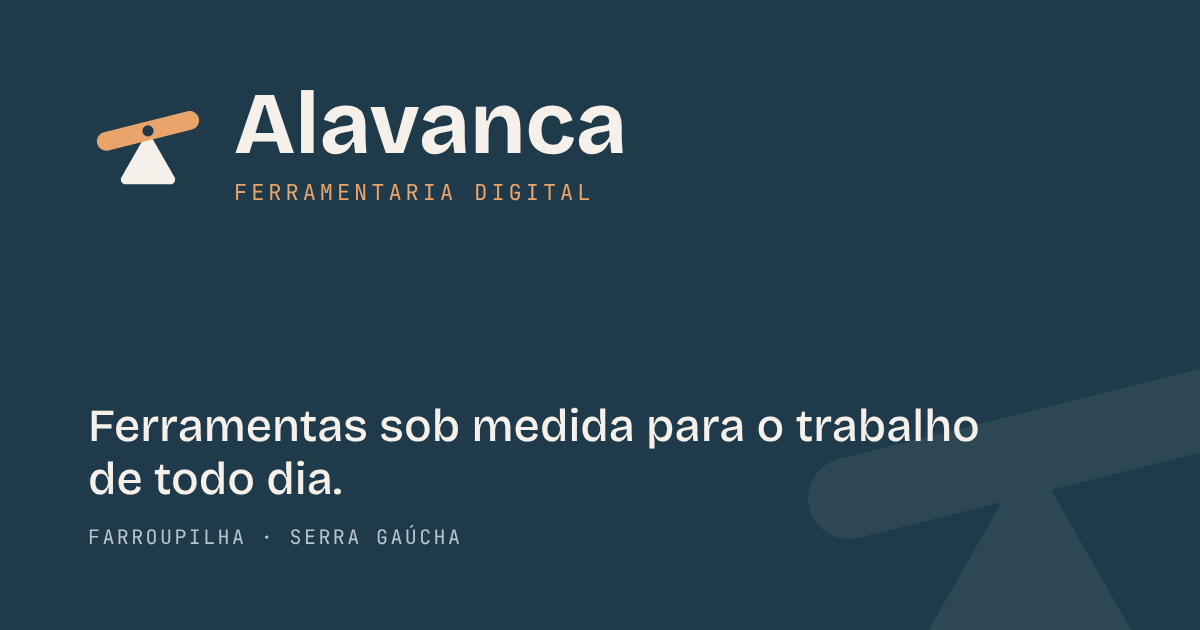
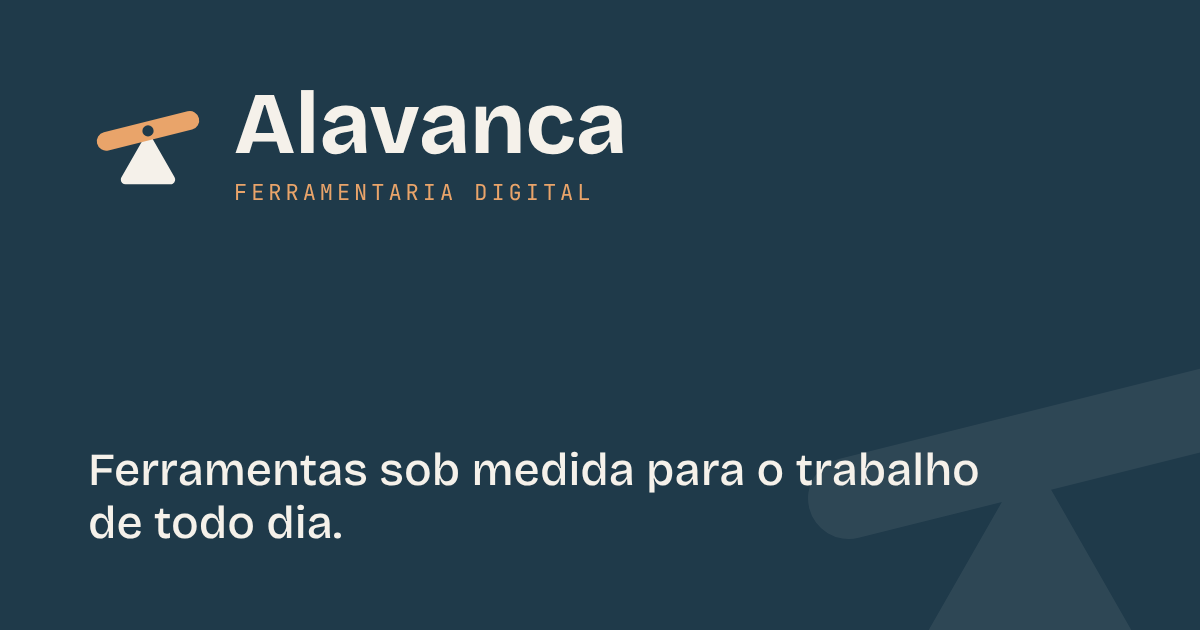
Retira referências à região e aos nomes dos sócios
Claude-Session: https://claude.ai/code/session_018fDDJx7eToLQ8KQqsvH9tL

Changed region(s): [[0.0617, 0.6333, 0.8325, 0.7841], [0.0617, 0.8143, 0.37, 0.8746]]

diff --git a/index.html b/index.html
@@ -3,8 +3,8 @@
 <head>
 <meta charset="utf-8">
 <meta name="viewport" content="width=device-width, initial-scale=1">
-<title>Alavanca · Ferramentaria digital em Farroupilha</title>
-<meta name="description" content="Pequenos aplicativos e ferramentas sob medida para as rotinas que hoje dependem de planilha, papel e retrabalho. Farroupilha e Serra Gaúcha.">
+<title>Alavanca · Ferramentaria digital</title>
+<meta name="description" content="Pequenos aplicativos e ferramentas sob medida para as rotinas que hoje dependem de planilha, papel e retrabalho.">
 <meta name="theme-color" content="#1F3A4A">
 <meta name="color-scheme" content="light">
 <meta property="og:type" content="website">
@@ -37,12 +37,11 @@
       <a href="#resolvemos">O que resolvemos</a>
       <a href="#como-funciona">Como funciona</a>
       <a href="#exemplos">Exemplos</a>
-      <a href="#quem-somos">Quem somos</a>
+      <a href="#por-que">Por que a Alavanca</a>
       <a href="#contato" class="botao botao-cobre botao-menu">Conte seu problema</a>
       <div class="menu-contatos">
         <div><span class="rotulo">WhatsApp</span> <span data-contato="whatsapp">[SEU WHATSAPP]</span></div>
         <div><span class="rotulo">E-mail</span> <span data-contato="email">[SEU E-MAIL]</span></div>
-        <div>Farroupilha – RS</div>
       </div>
     </nav>
     <button class="botao-menu-celular" type="button" aria-controls="menu" aria-expanded="false" aria-label="Abrir menu">
@@ -57,9 +56,9 @@
   <section id="inicio" class="abertura">
     <div class="container abertura-grade">
       <div class="abertura-texto">
-        <p class="sobretitulo">Farroupilha e Serra Gaúcha</p>
+        <p class="sobretitulo">Ferramentas sob medida para empresas</p>
         <h1>Aquele trabalho manual que toma horas da sua equipe? A gente transforma em ferramenta.</h1>
-        <p class="abertura-apoio">Desenvolvemos pequenos aplicativos e ferramentas sob medida para as rotinas que hoje dependem de planilha, papel e retrabalho. Sem jargão, com preço fechado e com gente da região do outro lado da mesa.</p>
+        <p class="abertura-apoio">Desenvolvemos pequenos aplicativos e ferramentas sob medida para as rotinas que hoje dependem de planilha, papel e retrabalho. Sem jargão, com preço fechado e com atendimento próximo do começo ao fim.</p>
         <div class="botoes">
           <a href="#contato" class="botao botao-cobre" data-whatsapp-link>
             <svg width="20" height="20" viewBox="0 0 24 24" fill="none" stroke="currentColor" stroke-width="2" stroke-linecap="round" stroke-linejoin="round" aria-hidden="true"><path d="M21 11.5a8.5 8.5 0 0 1-12.6 7.4L3 20.5l1.7-5.2A8.5 8.5 0 1 1 21 11.5z"/></svg>
@@ -148,7 +147,7 @@
         <li class="passo">
           <span class="passo-numero">01</span>
           <h3>Uma conversa</h3>
-          <p>Vamos até você, ou conversamos por vídeo, para entender a rotina do jeito que ela acontece de verdade, com quem faz o trabalho no dia a dia.</p>
+          <p>Conversamos pessoalmente ou por vídeo para entender a rotina do jeito que ela acontece de verdade, com quem faz o trabalho no dia a dia.</p>
           <span class="selo selo-passo">Sem compromisso</span>
         </li>
         <li class="passo">
@@ -239,12 +238,13 @@
       <div class="cabecalho-secao">
         <p class="sobretitulo">Por que a Alavanca</p>
         <h2>Pouco esforço e muito resultado, como uma boa alavanca</h2>
+        <p>Muitas empresas perdem horas toda semana com tarefas que uma ferramenta pequena resolveria. A Alavanca existe para isso: gente que entende de software, conversa sem jargão e entrega o que combinou.</p>
       </div>
       <div class="grade-motivos">
         <div class="motivo">
           <svg class="check" viewBox="0 0 24 24" aria-hidden="true"><path d="M4 12.5l5 5L20 7"/></svg>
-          <h3>Gente da região</h3>
-          <p>Estamos em Farroupilha. Dá para tomar um café e conversar pessoalmente sempre que for preciso.</p>
+          <h3>Atendimento próximo</h3>
+          <p>Conversamos pessoalmente ou por vídeo, do jeito que for melhor para você, e você sempre sabe com quem está falando.</p>
         </div>
         <div class="motivo">
           <svg class="check" viewBox="0 0 24 24" aria-hidden="true"><path d="M4 12.5l5 5L20 7"/></svg>
@@ -261,40 +261,6 @@
           <h3>A ferramenta é sua</h3>
           <p>O que construímos para você fica com você: os dados, os acessos e o próprio programa, sem amarras com a gente.</p>
         </div>
-      </div>
-    </div>
-  </section>
-
-  <section id="quem-somos" class="secao">
-    <div class="container">
-      <div class="cabecalho-secao">
-        <p class="sobretitulo">Quem somos</p>
-        <h2>Dois sócios de Farroupilha, perto de quem precisa</h2>
-        <p>Muitas empresas da região perdem horas toda semana com tarefas que uma ferramenta pequena resolveria. A Alavanca existe para isso: gente próxima, que entende do assunto e conversa na sua língua.</p>
-      </div>
-      <div class="grade-socios">
-        <article class="socio">
-          <div class="socio-foto" aria-hidden="true">
-            <svg viewBox="0 0 24 24"><circle cx="12" cy="8" r="4"/><path d="M4 21c1.5-4 4.5-6 8-6s6.5 2 8 6"/></svg>
-            <span>[FOTO]</span>
-          </div>
-          <div>
-            <h3>Gabriel Tavares</h3>
-            <p class="socio-funcao">Sócio · [ÁREA DE ATUAÇÃO]</p>
-            <p class="socio-texto">[Um parágrafo curto sobre a trajetória do Gabriel: experiência, especialidade e por que decidiu criar a Alavanca.]</p>
-          </div>
-        </article>
-        <article class="socio">
-          <div class="socio-foto" aria-hidden="true">
-            <svg viewBox="0 0 24 24"><circle cx="12" cy="8" r="4"/><path d="M4 21c1.5-4 4.5-6 8-6s6.5 2 8 6"/></svg>
-            <span>[FOTO]</span>
-          </div>
-          <div>
-            <h3>Vandré Fardin</h3>
-            <p class="socio-funcao">Sócio · [ÁREA DE ATUAÇÃO]</p>
-            <p class="socio-texto">[Um parágrafo curto sobre a trajetória do Vandré: experiência, especialidade e por que decidiu criar a Alavanca.]</p>
-          </div>
-        </article>
       </div>
     </div>
   </section>
@@ -343,7 +309,6 @@
         <div class="contatos">
           <div><span class="rotulo">WhatsApp</span> <span data-contato="whatsapp">[SEU WHATSAPP]</span></div>
           <div><span class="rotulo">E-mail</span> <span data-contato="email">[SEU E-MAIL]</span></div>
-          <div><span class="rotulo">Onde</span> Farroupilha – RS</div>
         </div>
       </div>
 
@@ -406,10 +371,10 @@
     <nav class="rodape-links" aria-label="Rodapé">
       <a href="#como-funciona">Como funciona</a>
       <a href="#exemplos">Exemplos</a>
-      <a href="#quem-somos">Quem somos</a>
+      <a href="#por-que">Por que a Alavanca</a>
       <a href="#contato">Contato</a>
     </nav>
-    <p class="rodape-legal">Farroupilha – RS · © 2026 Alavanca, ferramentaria digital</p>
+    <p class="rodape-legal">© 2026 Alavanca, ferramentaria digital</p>
   </div>
 </footer>
 

diff --git a/estilo.css b/estilo.css
@@ -400,41 +400,6 @@ a:hover { color: var(--azul); }
 .motivo p { font-size: 17px; }
 .check { width: 28px; height: 28px; fill: none; stroke: var(--salvia); stroke-width: 2.4; stroke-linecap: round; stroke-linejoin: round; }
 
-.grade-socios {
-  display: grid;
-  grid-template-columns: repeat(auto-fit, minmax(320px, 1fr));
-  gap: 24px;
-}
-.socio {
-  padding: 28px;
-  background: var(--branco);
-  border: 1px solid var(--linha);
-  border-radius: var(--raio);
-  display: flex;
-  gap: 24px;
-  align-items: flex-start;
-}
-.socio-foto {
-  width: 120px;
-  height: 140px;
-  flex: none;
-  border-radius: 12px;
-  background: var(--areia);
-  border: 1px dashed var(--linha-forte);
-  display: flex;
-  flex-direction: column;
-  align-items: center;
-  justify-content: center;
-  gap: 6px;
-  color: var(--cinza);
-  font-family: var(--fonte-mono);
-  font-size: 12px;
-}
-.socio-foto svg { width: 36px; height: 36px; fill: none; stroke: var(--cinza); stroke-width: 1.6; stroke-linecap: round; stroke-linejoin: round; }
-.socio h3 { font-size: 24px; }
-.socio-funcao { margin: 6px 0 10px; font-family: var(--fonte-mono); font-size: 12px; letter-spacing: .1em; text-transform: uppercase; color: var(--cobre); }
-.socio-texto { font-size: 17px; color: var(--cinza); }
-
 .perguntas details { border-bottom: 1px solid var(--linha); }
 .perguntas details:first-child { border-top: 1px solid var(--linha); }
 .perguntas summary {
@@ -647,13 +612,6 @@ a:hover { color: var(--azul); }
   .check { width: 22px; height: 22px; grid-row: span 2; margin-top: 3px; }
   .motivo h3 { font-size: 17px; font-family: var(--fonte-texto); font-weight: 600; }
   .motivo p { font-size: 15px; line-height: 1.45; }
-
-  .grade-socios { grid-template-columns: minmax(0, 1fr); gap: 16px; }
-  .socio { padding: 20px; flex-wrap: wrap; gap: 16px; }
-  .socio-foto { width: 84px; height: 96px; }
-  .socio > div:last-child { flex: 1 1 180px; min-width: 0; }
-  .socio h3 { font-size: 22px; }
-  .socio-texto { font-size: 16px; }
 
   .perguntas summary { font-size: 17px; min-height: 58px; }
   .perguntas details p { font-size: 16px; }

diff --git a/README.md b/README.md
@@ -22,10 +22,6 @@ const CONTATO = {
 
 O número vai só com dígitos: 55, o DDD e o número. Depois disso, todos os botões de WhatsApp do site passam a abrir a conversa, e o formulário de contato envia a mensagem pronta pelo WhatsApp.
 
-## O que ainda falta preencher em `index.html`
-
-Procure pelos trechos entre colchetes, como `[FOTO]`, `[ÁREA DE ATUAÇÃO]` e os parágrafos sobre cada sócio.
-
 ## Domínio próprio
 
 Quando houver um domínio, configure em Settings › Pages › Custom domain e troque o endereço nas linhas `og:url` e `og:image` do `index.html`.
